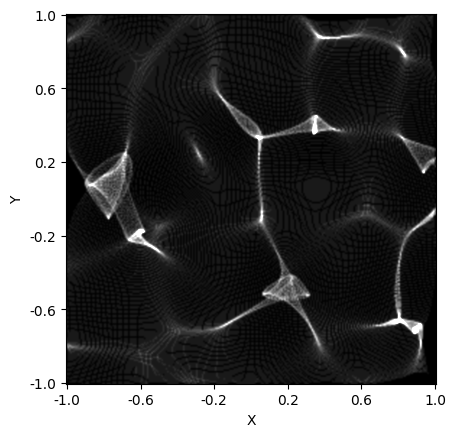
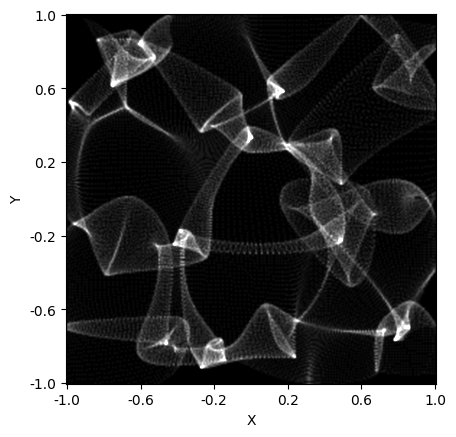
increased screen distance

Changed region(s): [[0.1228, 0.0297, 0.9825, 0.8924], [0.7368, 0.833, 0.7675, 0.8627], [0.5219, 0.0892, 0.5526, 0.119]]

diff --git a/farfield.py b/farfield.py
@@ -5,7 +5,7 @@ import matplotlib.pyplot as plt
 N = 256 # Grid resolution, N ** 2 points
 SX = 1 / 8 # X Roughness
 SY = 1 / 8 # Y Roughness
-D = 2 # Distance to screen
+D = 5 # Distance to screen
 
 x = np.linspace(- 1, 1, N)
 y = np.linspace(- 1, 1, N)
